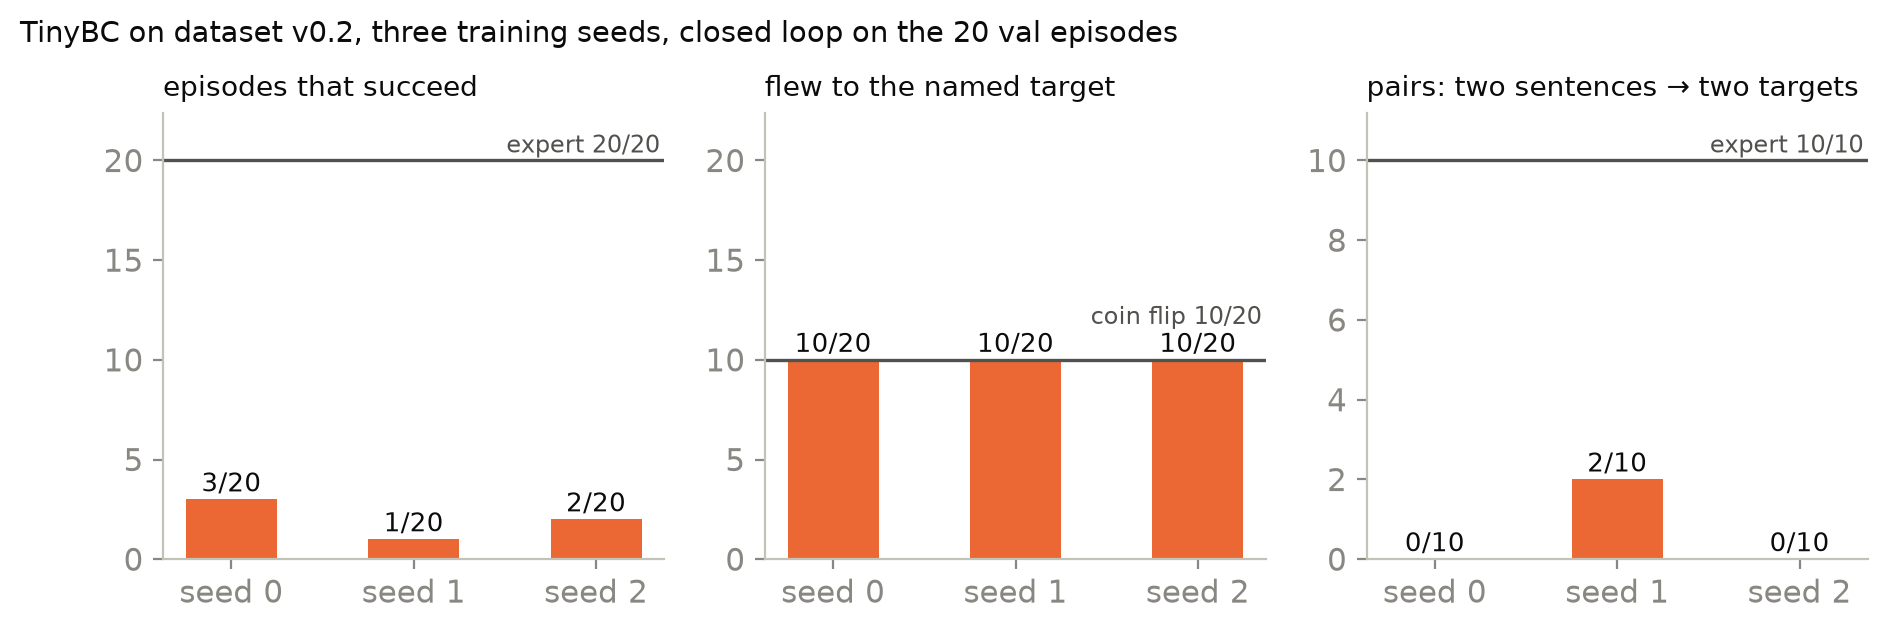
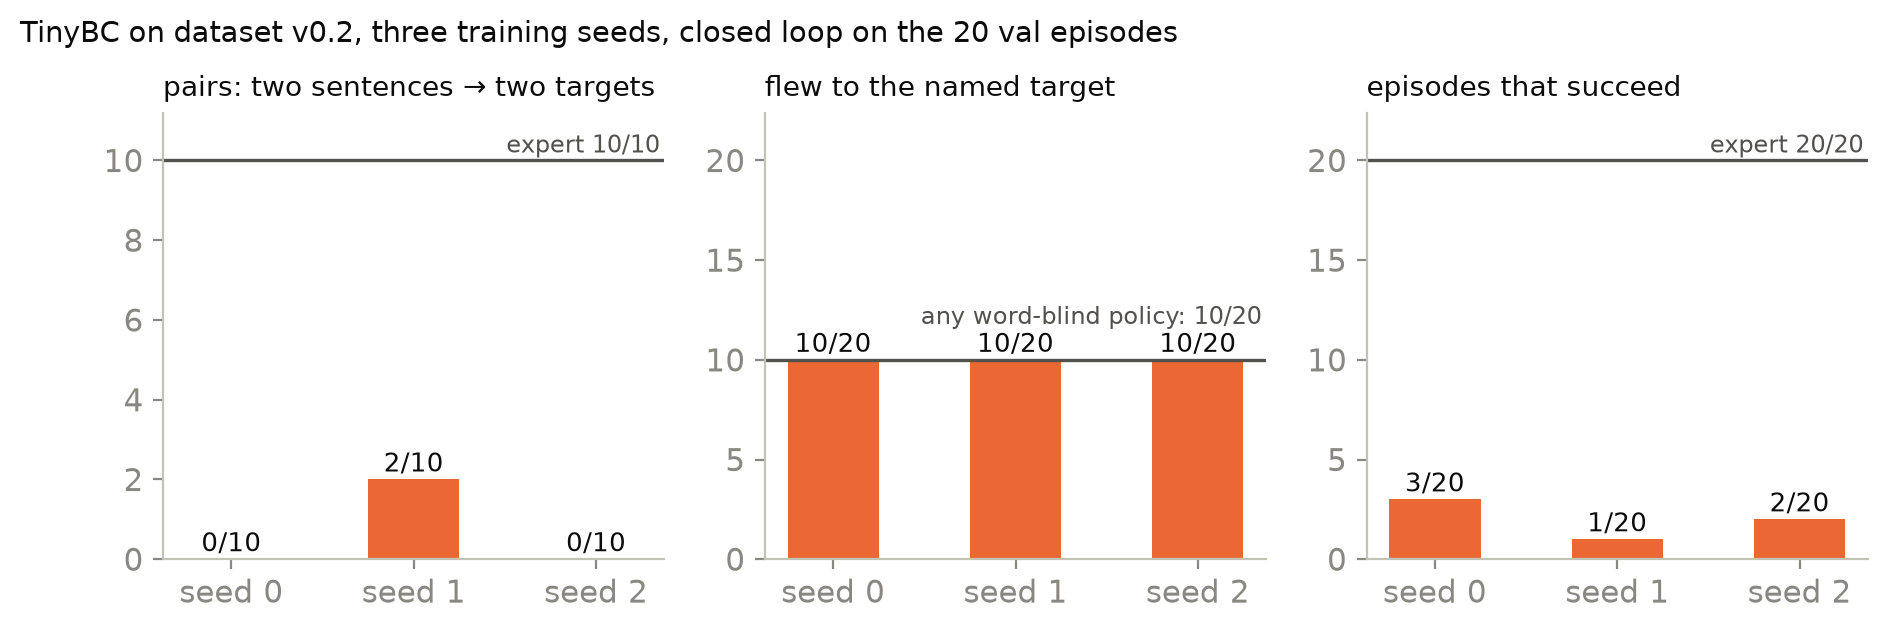
Blog part 4 figure: lead with pair divergence; label 10/20 as the word-blind floor
A policy that flies to the same pillar for both sentences of a pair is right for exactly
one of them, so 10/20 named-target hits is forced, not chance. The panel order and label
now say so.

diff --git a/scripts/figures/blog02_04.py b/scripts/figures/blog02_04.py
@@ -387,9 +387,9 @@ def fig_language_use():
                           "instructed": nums[3]}
     seeds = sorted(vals)
     fig, axes = plt.subplots(1, 3, figsize=(11, 2.9))
-    specs = [("success", 20, "episodes that succeed", 20, "expert 20/20"),
-             ("instructed", 20, "flew to the named target", 10, "coin flip 10/20"),
-             ("diff", 10, "pairs: two sentences → two targets", 10, "expert 10/10")]
+    specs = [("diff", 10, "pairs: two sentences → two targets", 10, "expert 10/10"),
+             ("instructed", 20, "flew to the named target", 10, "any word-blind policy: 10/20"),
+             ("success", 20, "episodes that succeed", 20, "expert 20/20")]
     for ax, (key, tot, title, ref, reflab) in zip(axes, specs):
         v = [int(vals[s][key].split("/")[0]) for s in seeds]
         ax.bar(range(3), v, width=0.5, color=POLICY)
